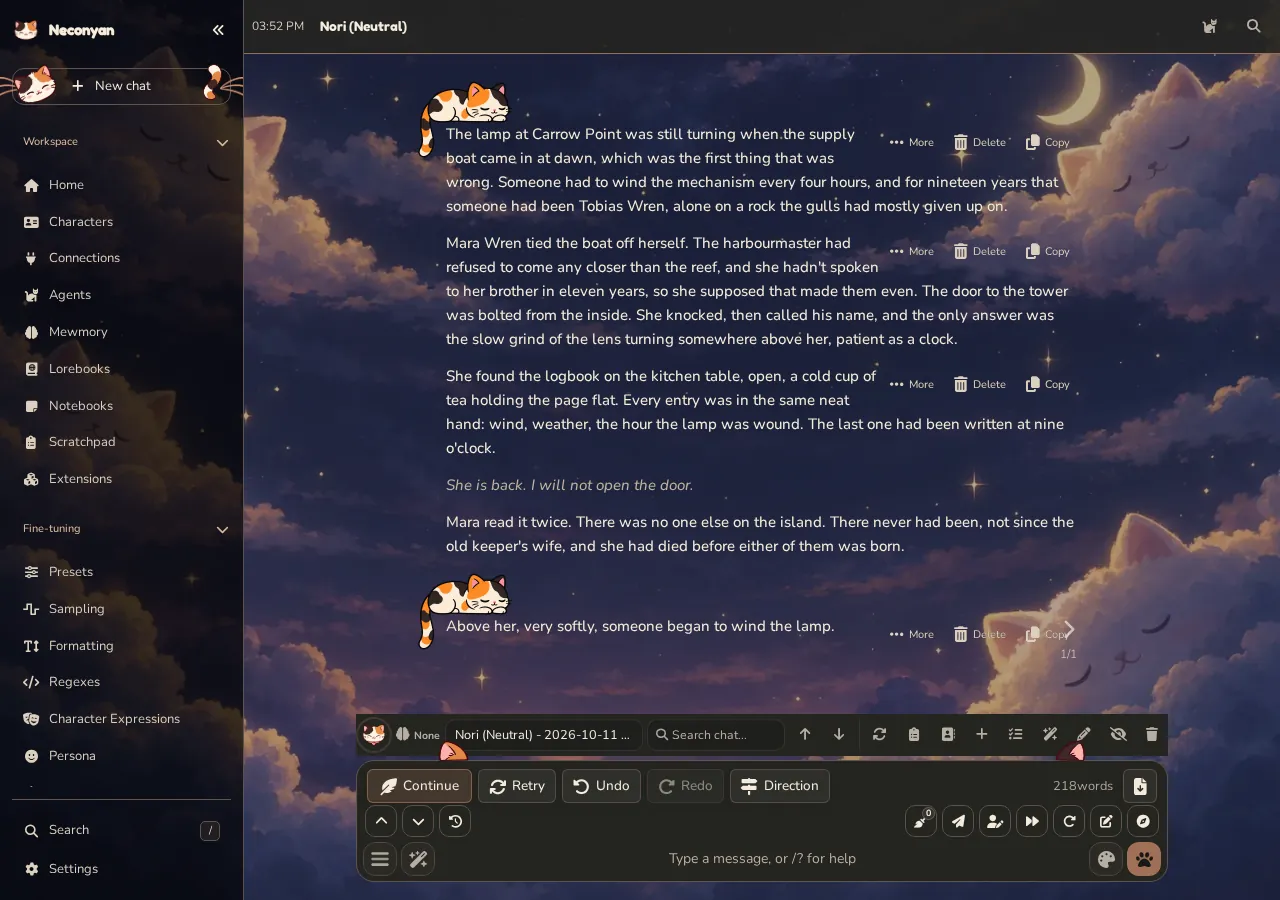
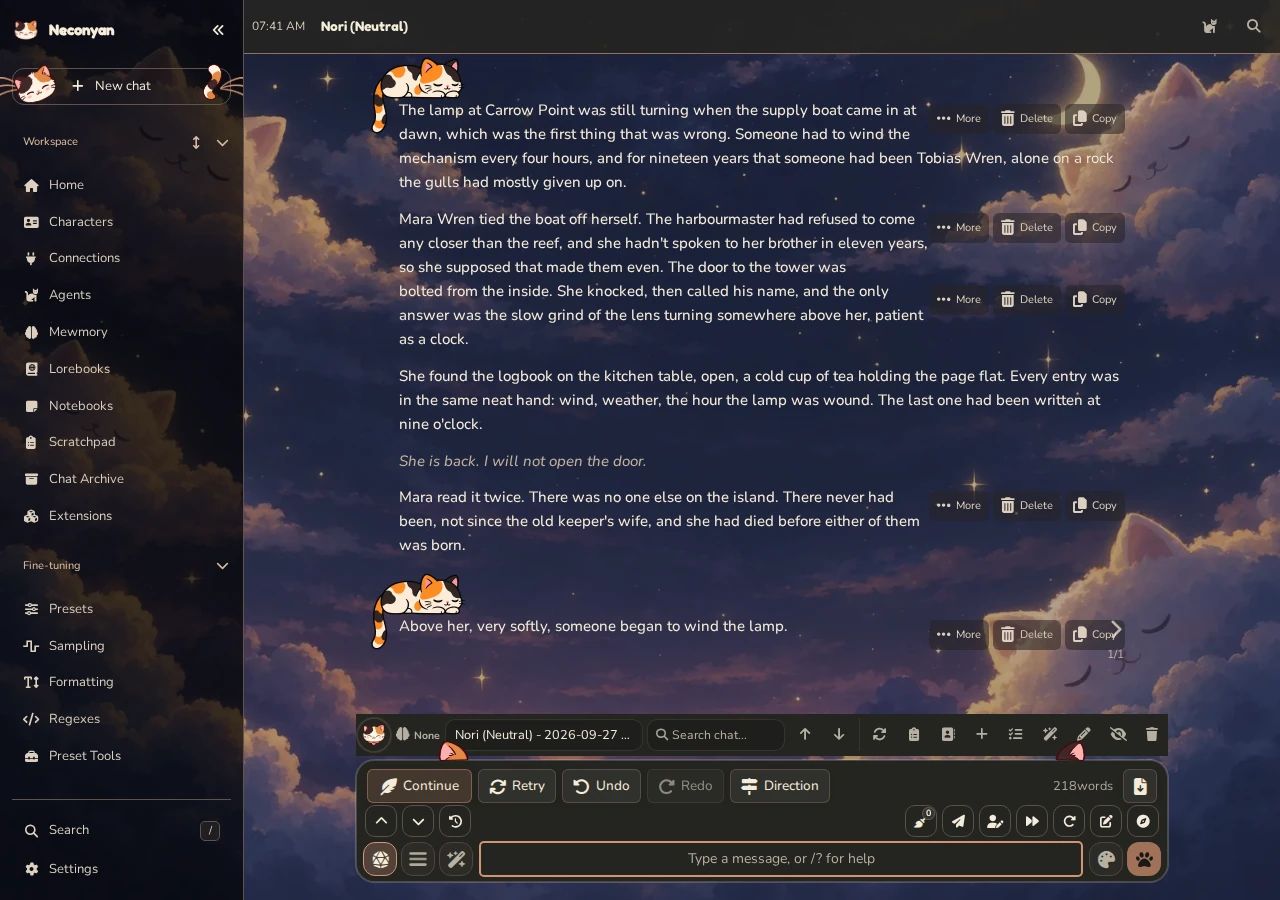
docs: refresh handbook screenshots for 1.4.0

diff --git a/ASSETS.md b/ASSETS.md
@@ -1,10 +1,14 @@
 # Assets and source material
 
-The application source used for this edition is [Neconyan at 6e0269d0](https://github.com/platberlitz/Neconyan/tree/6e0269d0), reviewed on 21 October 2026. Existing artwork and screenshots were copied from that source; the handbook doesn’t generate replacement application screens.
+The bundled artwork was copied from [Neconyan at 6e0269d0](https://github.com/platberlitz/Neconyan/tree/6e0269d0), reviewed on 21 October 2026. Screenshot sources and capture dates are recorded separately below.
 
 ## Screenshots
 
-The fifteen files under `docs/assets/images/screenshots/` come from `docs/readme/` in Neconyan. Fourteen were copied for 1.3.0 and show Home, Roleplay, Conversation, Meower, Story Mode, Notebooks and Scratchpad, each on desktop and phone. `desktop-simple.webp` was added for 1.3.7 and shows the shorter Simple Mode sidebar. They contain staged demonstration content with the bundled assistants.
+The fifteen files under `docs/assets/images/screenshots/` were recaptured on 30 October 2026 from the running application with disposable demonstration data. They replace the 1.3.0 captures and the 1.3.7 Simple Mode capture. Home, Roleplay, Conversation, Meower, Story Mode, Notebooks and Scratchpad each have a desktop and phone image; `desktop-simple.webp` shows the shorter Simple Mode sidebar and composer.
+
+The captures use [Neconyan at a4f53894](https://github.com/platberlitz/Neconyan/tree/a4f53894). Its application interface matches the [1.4.0 release at 5f9229c4](https://github.com/platberlitz/Neconyan/tree/5f9229c4); the later commit only changes the next staging version, its test expectations and the handover record. The captures show the Calico Dark theme, bundled assistants and staged chats, posts, notes and a Scratchpad discussion. No personal account data was used, and capture made no model requests.
+
+Playwright captured Chromium at 1280×900 for desktop and 393×852 with touch emulation for phone, at a pixel ratio of 1. These are browser viewport captures, not physical-phone or Safari verification. The screenshots were converted to WebP at quality 90 without resizing or compositing interface elements.
 
 ## Assistant artwork
 

diff --git a/README.md b/README.md
@@ -43,6 +43,8 @@ Avoid repeated 'same X' phrasing and three-item lists written for rhythm. Keep a
 
 Use demonstration data for screenshots. Desktop captures are 1280×900 and phone captures are 393×852. Keep verification captures in `screenshots/`; that directory is ignored. Images published in the handbook belong in `docs/assets/images/screenshots/`.
 
+All fifteen published screenshots were refreshed on 30 October 2026 against the 1.4.0 interface. When replacing them, record the application commit, capture date and browser setup in [ASSETS.md](ASSETS.md), then check the affected guides and screenshot zoom at both widths.
+
 ## Update the macro reference
 
 The reference is built from a reviewed snapshot, so adding a macro won’t silently leave it out of the handbook.
